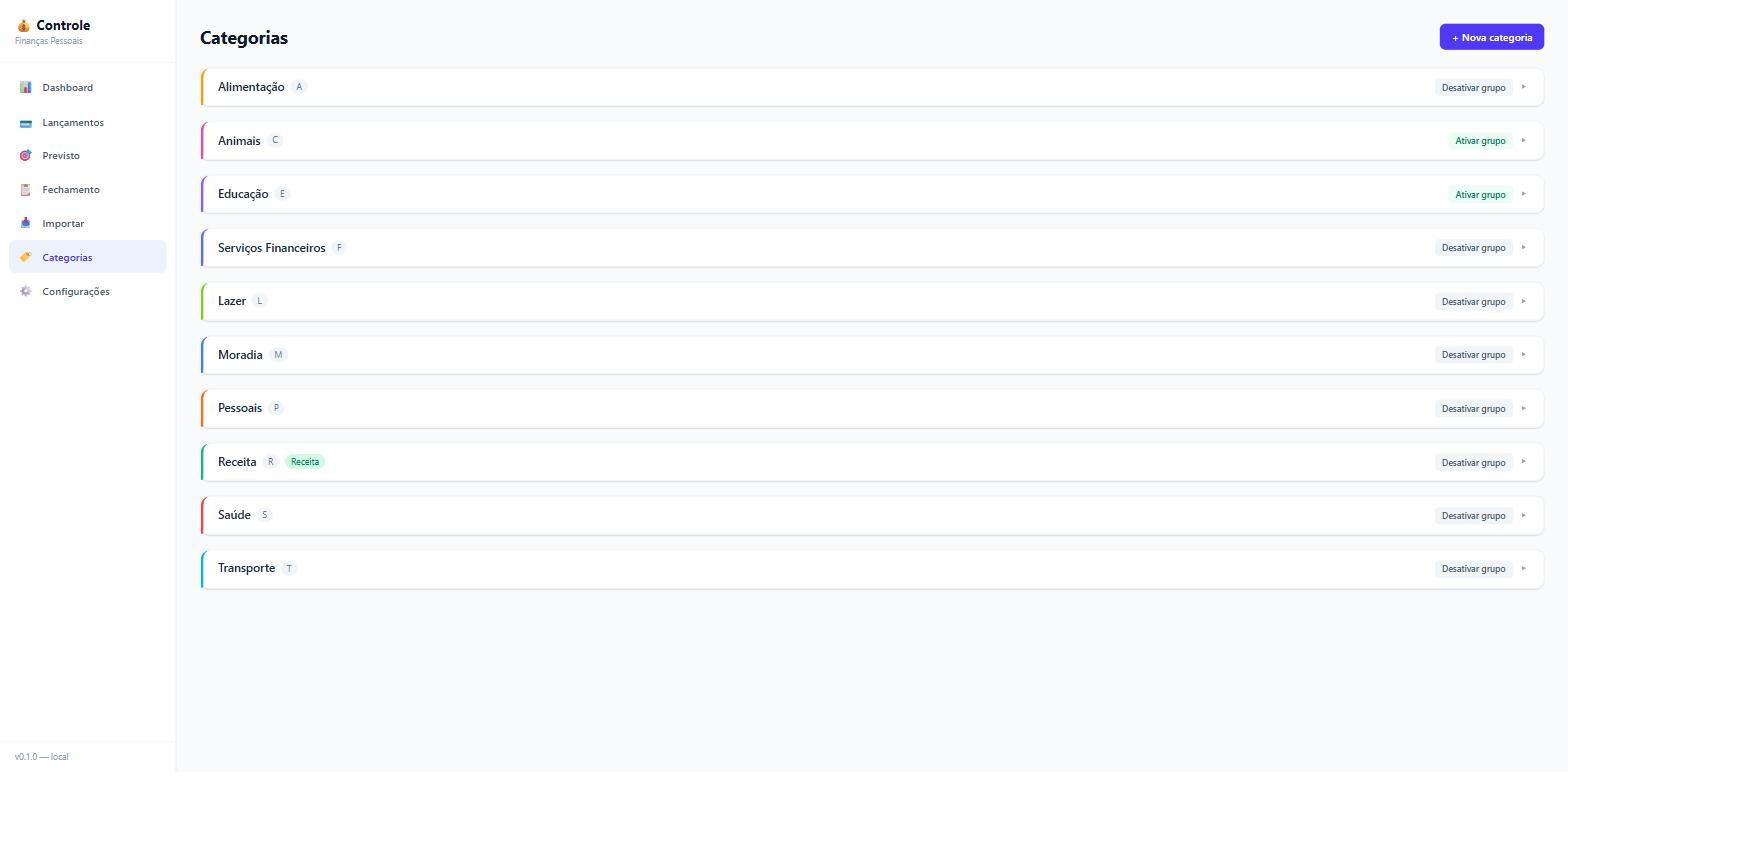
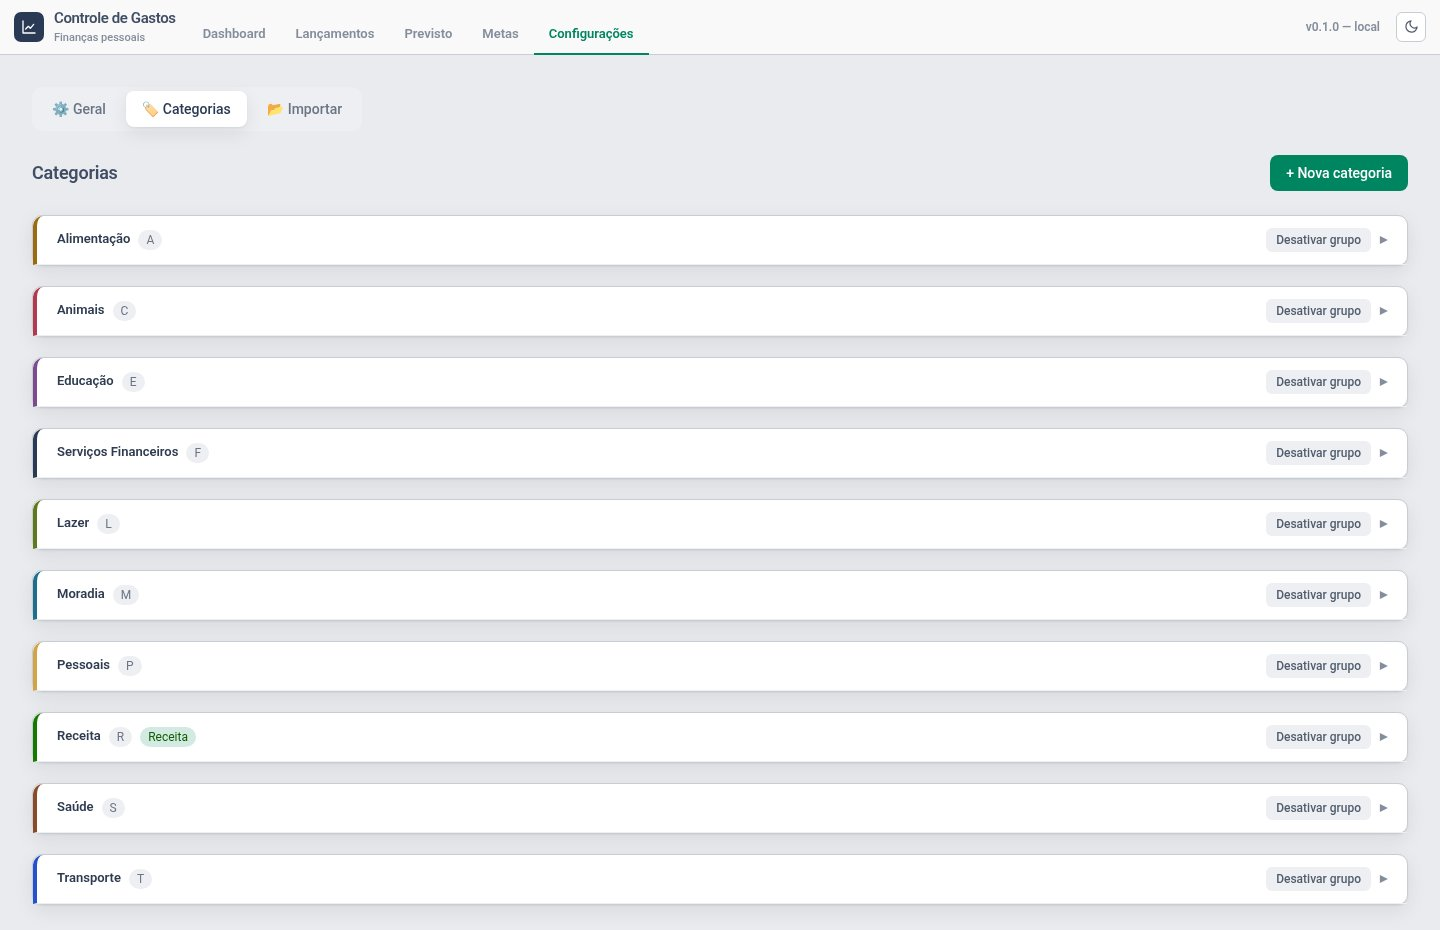
docs(readme): atualiza funcionalidades e screenshots com dados fictícios
- novas capturas: previsto e metas; demais refeitas
- funcionalidades: metas, fluxo de caixa até o salário, antecipação de parcelas
- remove fechamento mensal e integração Pluggy

diff --git a/README.md b/README.md
@@ -1,16 +1,16 @@
 # Controle de Gastos
 
-Aplicação pessoal de controle financeiro: categoriza receitas e despesas, projeta orçamento mensal, fecha o mês e sincroniza transações bancárias automaticamente via Open Finance (Pluggy).
+Aplicação pessoal de controle financeiro: categoriza receitas e despesas, projeta orçamento mensal e acompanha metas financeiras.
 
 ## Funcionalidades
 
-- **Dashboard** com visão consolidada por mês (gráficos via ECharts).
+- **Dashboard** com visão consolidada por mês, saldo atual, fluxo de caixa até o próximo salário e gráficos (ECharts).
 - **Transações**: lançamento manual, edição e categorização.
 - **Categorias e grupos**: organização de receitas/despesas por grupo (ex. Moradia, Alimentação, Transporte).
-- **Orçamento previsto** por categoria e mês.
-- **Fechamento mensal**: imprevistos, gastos superfluos, observações.
+- **Orçamento previsto** por categoria e mês, com receita prevista e cópia de um mês para outro.
+- **Metas financeiras**: reserva, viagem, imóvel, com progresso e quanto guardar por mês para cumprir o prazo.
+- **Antecipação de parcelas**: registra o desconto obtido ao pagar antes do vencimento.
 - **Importação** de extratos (CSV/XLSX), com parsing de datas e valores em formato brasileiro.
-- **Sincronização automática** com contas bancárias via [Pluggy](https://pluggy.ai) (Open Finance), com deduplicação por ID da transação.
 
 ## Screenshots
 
@@ -18,9 +18,15 @@ Aplicação pessoal de controle financeiro: categoriza receitas e despesas, proj
 | --- | --- |
 | ![Dashboard](static/screenshots/dashboard.jpg) | ![Lançamentos](static/screenshots/lancamentos.jpg) |
 
+| Previsto | Metas |
+| --- | --- |
+| ![Previsto](static/screenshots/previsto.jpg) | ![Metas](static/screenshots/metas.jpg) |
+
 | Categorias | Importação |
 | --- | --- |
 | ![Categorias](static/screenshots/categorias.jpg) | ![Importação](static/screenshots/importar.jpg) |
+
+Os dados das capturas são fictícios.
 
 ## Stack
 
@@ -43,8 +49,6 @@ Edite o `.env`:
 
 ```
 DATABASE_URL=local.db
-PLUGGY_CLIENT_ID=       # opcional, só necessário para sincronização bancária
-PLUGGY_CLIENT_SECRET=   # opcional, obtido em https://dashboard.pluggy.ai
 ```
 
 Aplique o schema no banco e (opcionalmente) popule categorias padrão:
@@ -80,11 +84,9 @@ src/
   lib/
     server/
       db/          schema, seed, acesso a dados
-      pluggy.ts    integração com a API Pluggy
-      pluggy-sync.ts  sincronização automática de transações
     utils/         funções puras (formatação, parsing)
     components/    componentes Svelte reutilizáveis
   routes/
-    api/           endpoints REST (import, pluggy)
-    dashboard, transactions, categories, previsto, fechamento, settings
+    api/           endpoints REST (import)
+    dashboard, transactions, previsto, metas, settings (geral, categorias, importar)
 ```
